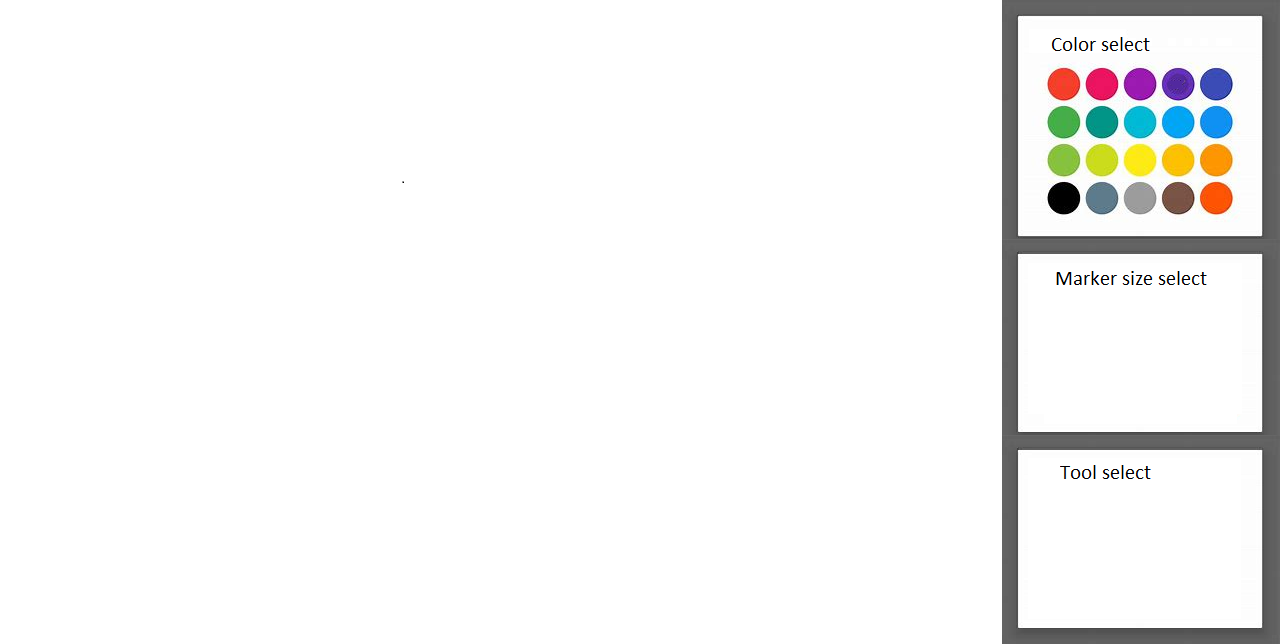
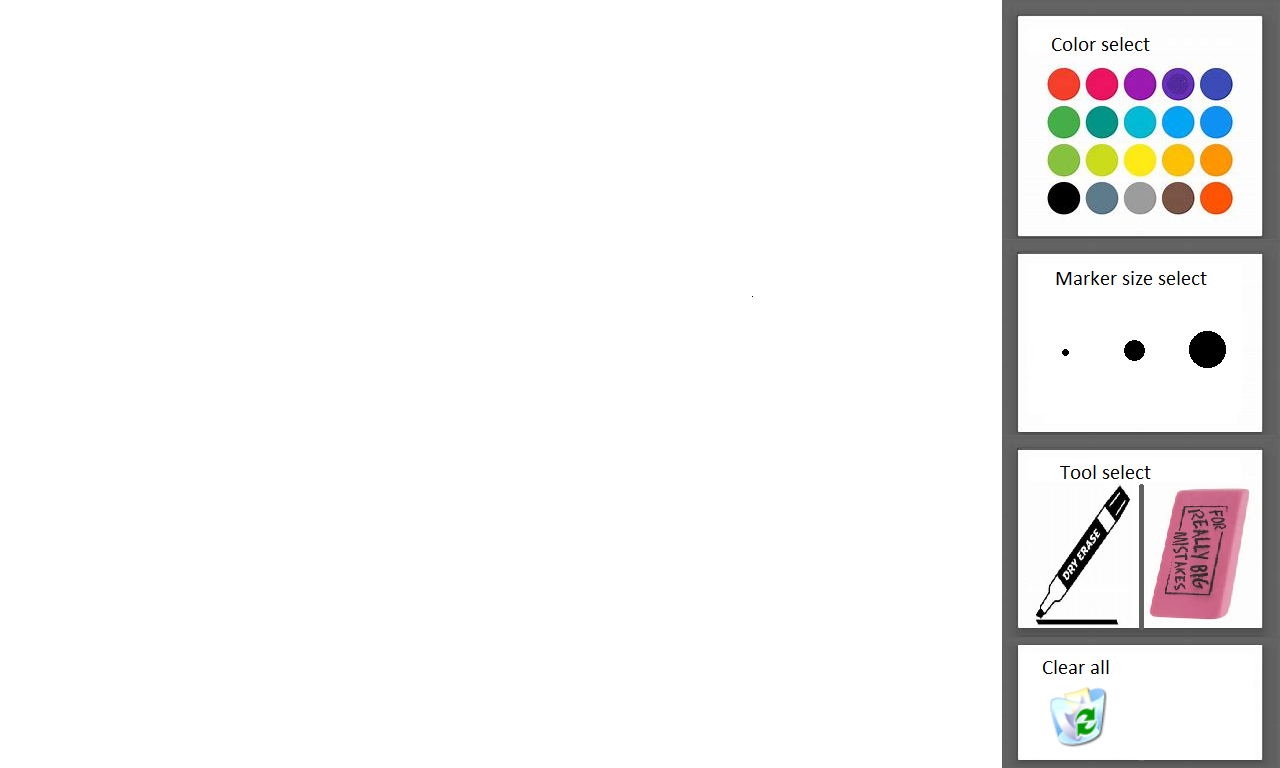
added clear function to painter

Changed region(s): [[0.7812, 0.0, 1.0, 0.4969], [0.7812, 0.559, 1.0, 0.9938]]

diff --git a/ARWhiteboard/Assets/3D painter/TexturePainter.cs b/ARWhiteboard/Assets/3D painter/TexturePainter.cs
@@ -13,8 +13,8 @@ public class TexturePainter : MonoBehaviour {
 
     public Color foregroundColor = Color.black;
     public Color backgroundColor = Color.white;
+    private Color prevColor;
 
-    
     Texture2D canvas;
     
     //1024x768
@@ -60,7 +60,7 @@ public class TexturePainter : MonoBehaviour {
         //canvas.filterMode = FilterMode.Point;
         GetComponent<MeshRenderer>().material.SetTexture("_MainTex", canvas);
         canvas.Apply();
-        
+        prevColor = foregroundColor;
 
         // Load the Image from somewhere on disk
 
@@ -87,27 +87,50 @@ public class TexturePainter : MonoBehaviour {
         {
             var pixelCoords = uv2PixelCoords(hitInfo.textureCoord);
             //800
+            //draw
             if (pixelCoords.x < 800)
             {
+
                 Stroke(pixelCoords.x, pixelCoords.y, foregroundColor);
             }
-            else if (pixelCoords.x > 837 && pixelCoords.x < 986 && pixelCoords.y  < 458 && pixelCoords.y > 341)
+            //change color
+            else if (pixelCoords.x > 837 && pixelCoords.x < 986 && pixelCoords.y  < 946 && pixelCoords.y > 737)
             {
                 foregroundColor = canvas.GetPixel(pixelCoords.x, pixelCoords.y);
+                prevColor = canvas.GetPixel(pixelCoords.x, pixelCoords.y);
+            }
+            //marker tool
+            else if (pixelCoords.x > 814 && pixelCoords.x < 910 && pixelCoords.y < 382 && pixelCoords.y > 188)
+            {
+                //Debug.Log(prevColor.ToString());
+                foregroundColor = prevColor;
+            }
+            //eraser tool
+            else if (pixelCoords.x > 915 && pixelCoords.x < 1009 && pixelCoords.y < 382 && pixelCoords.y > 188)
+            {
+                foregroundColor = backgroundColor;   
+            }
+            //clear all
+            else if (pixelCoords.x > 814 && pixelCoords.x < 910 && pixelCoords.y < 166 && pixelCoords.y > 13)
+            {
+                for (int i = 0; i <= 800; i++)
+                {
+                    for (int j = 0; j <= canvasHeight; j++) 
+                        canvas.SetPixel(i, j, backgroundColor);
+                }
+                canvas.Apply();
             }
         }
     }
 
     void Stroke(int x, int y, Color color)
     {
-        
-        //x left 837 x right 986 y top 458 y bottom 341
-        //Debug.Log("x: " + x + ", y: " + y);
+        Debug.Log("x: " + x + ", y: " + y);
         for (int i = x-9; i <= x+9; i++)
         {
             for (int j = y-9; j <= y+9; j++)
             {
-                if (j < canvasHeight && j > 0 && i < canvasWidth - 278 && i > 0)
+                if (j < canvasHeight && j > 0 && i < 800 && i > 0)
                     canvas.SetPixel(i, j, color);
             }
         }
